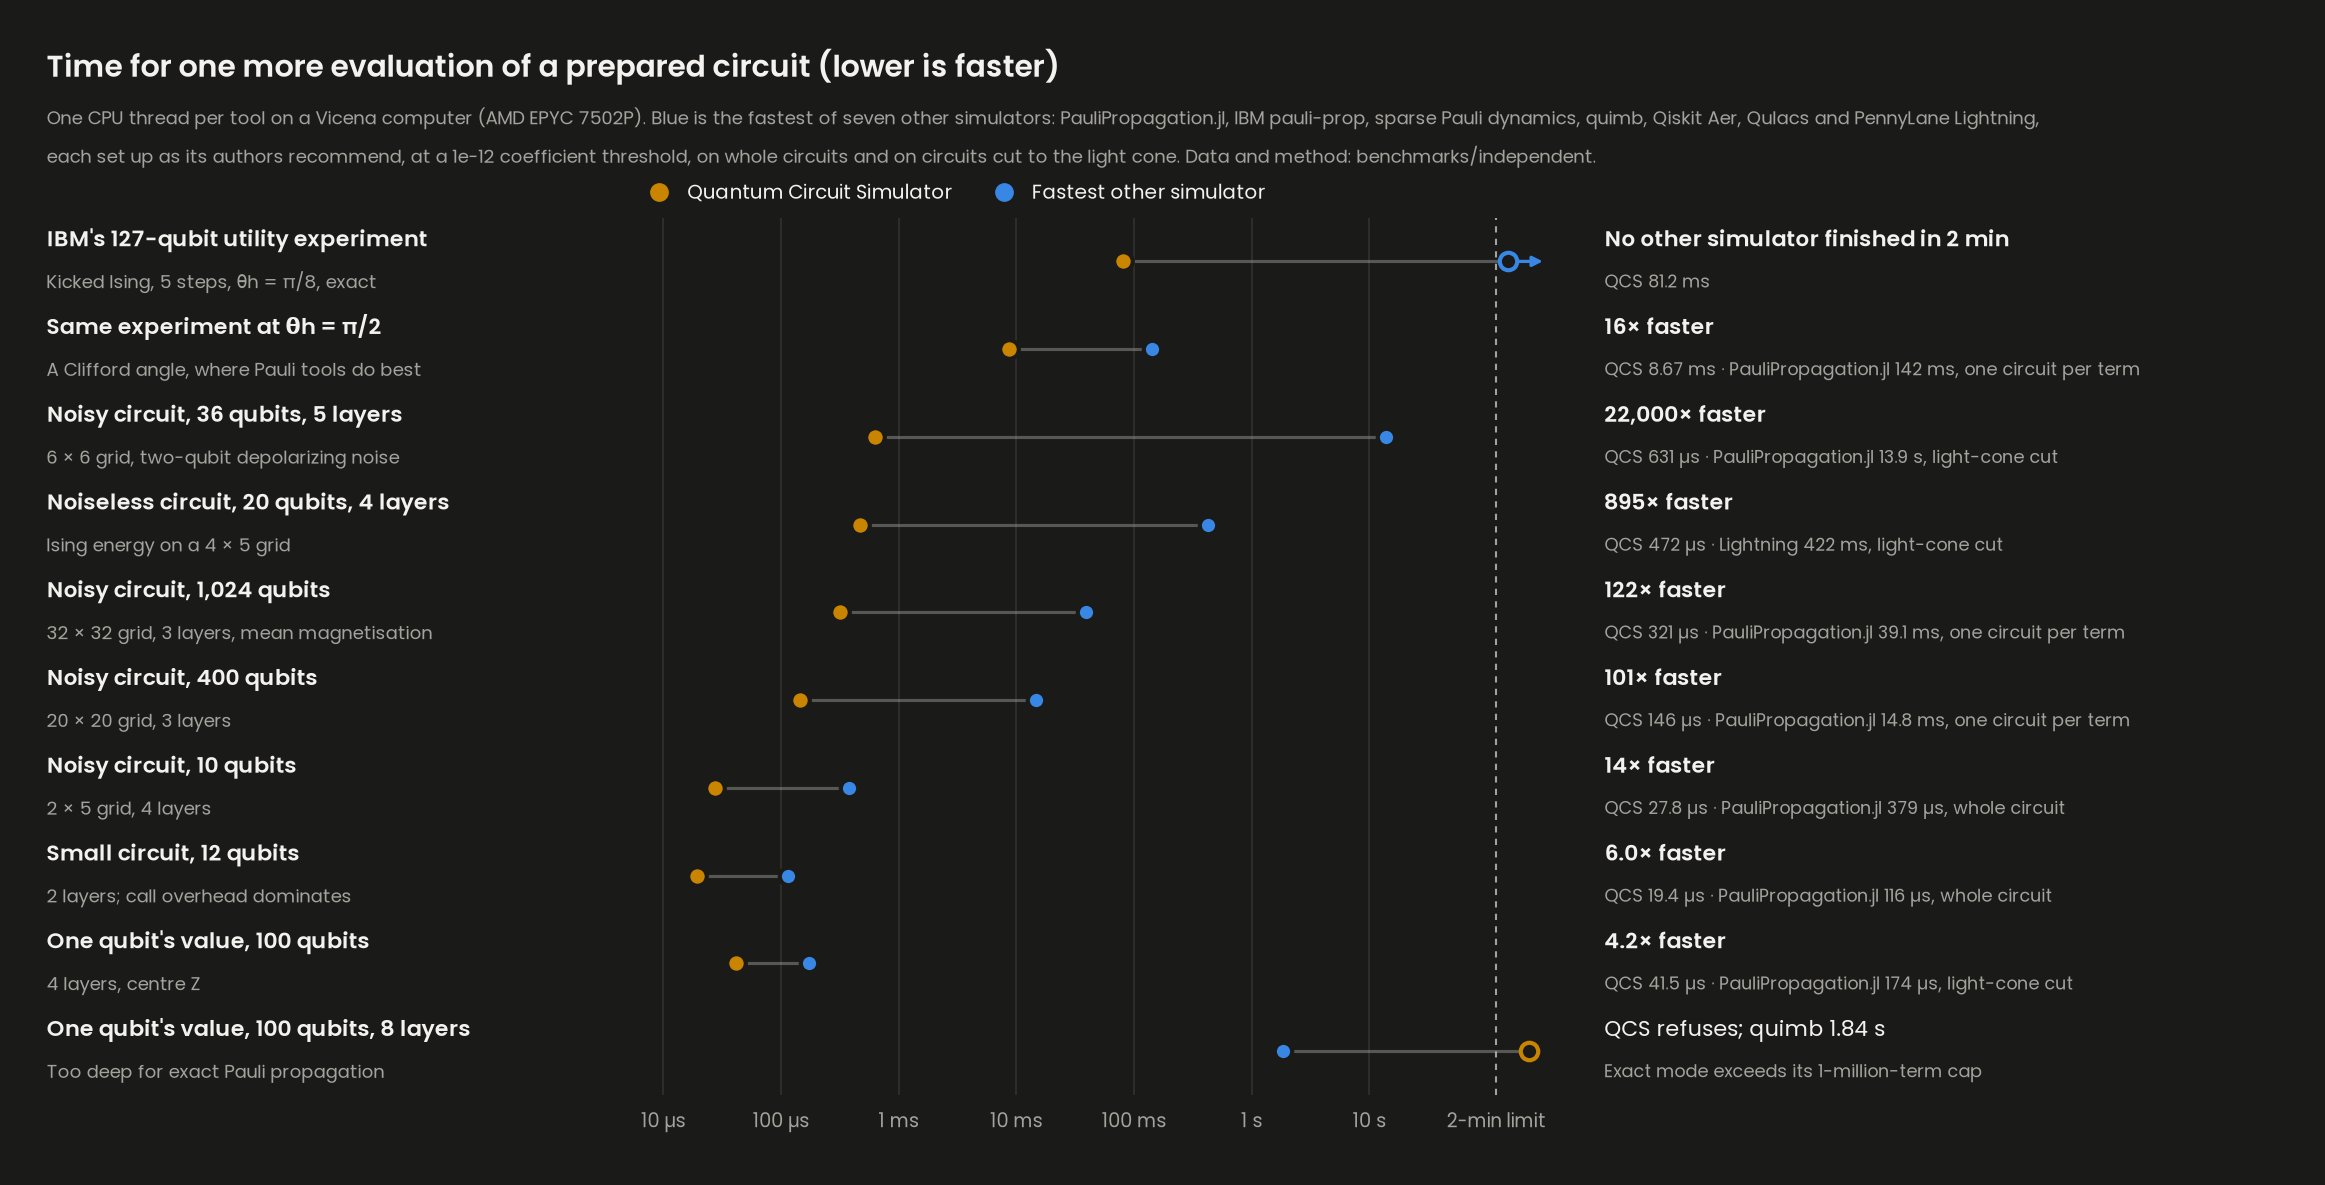
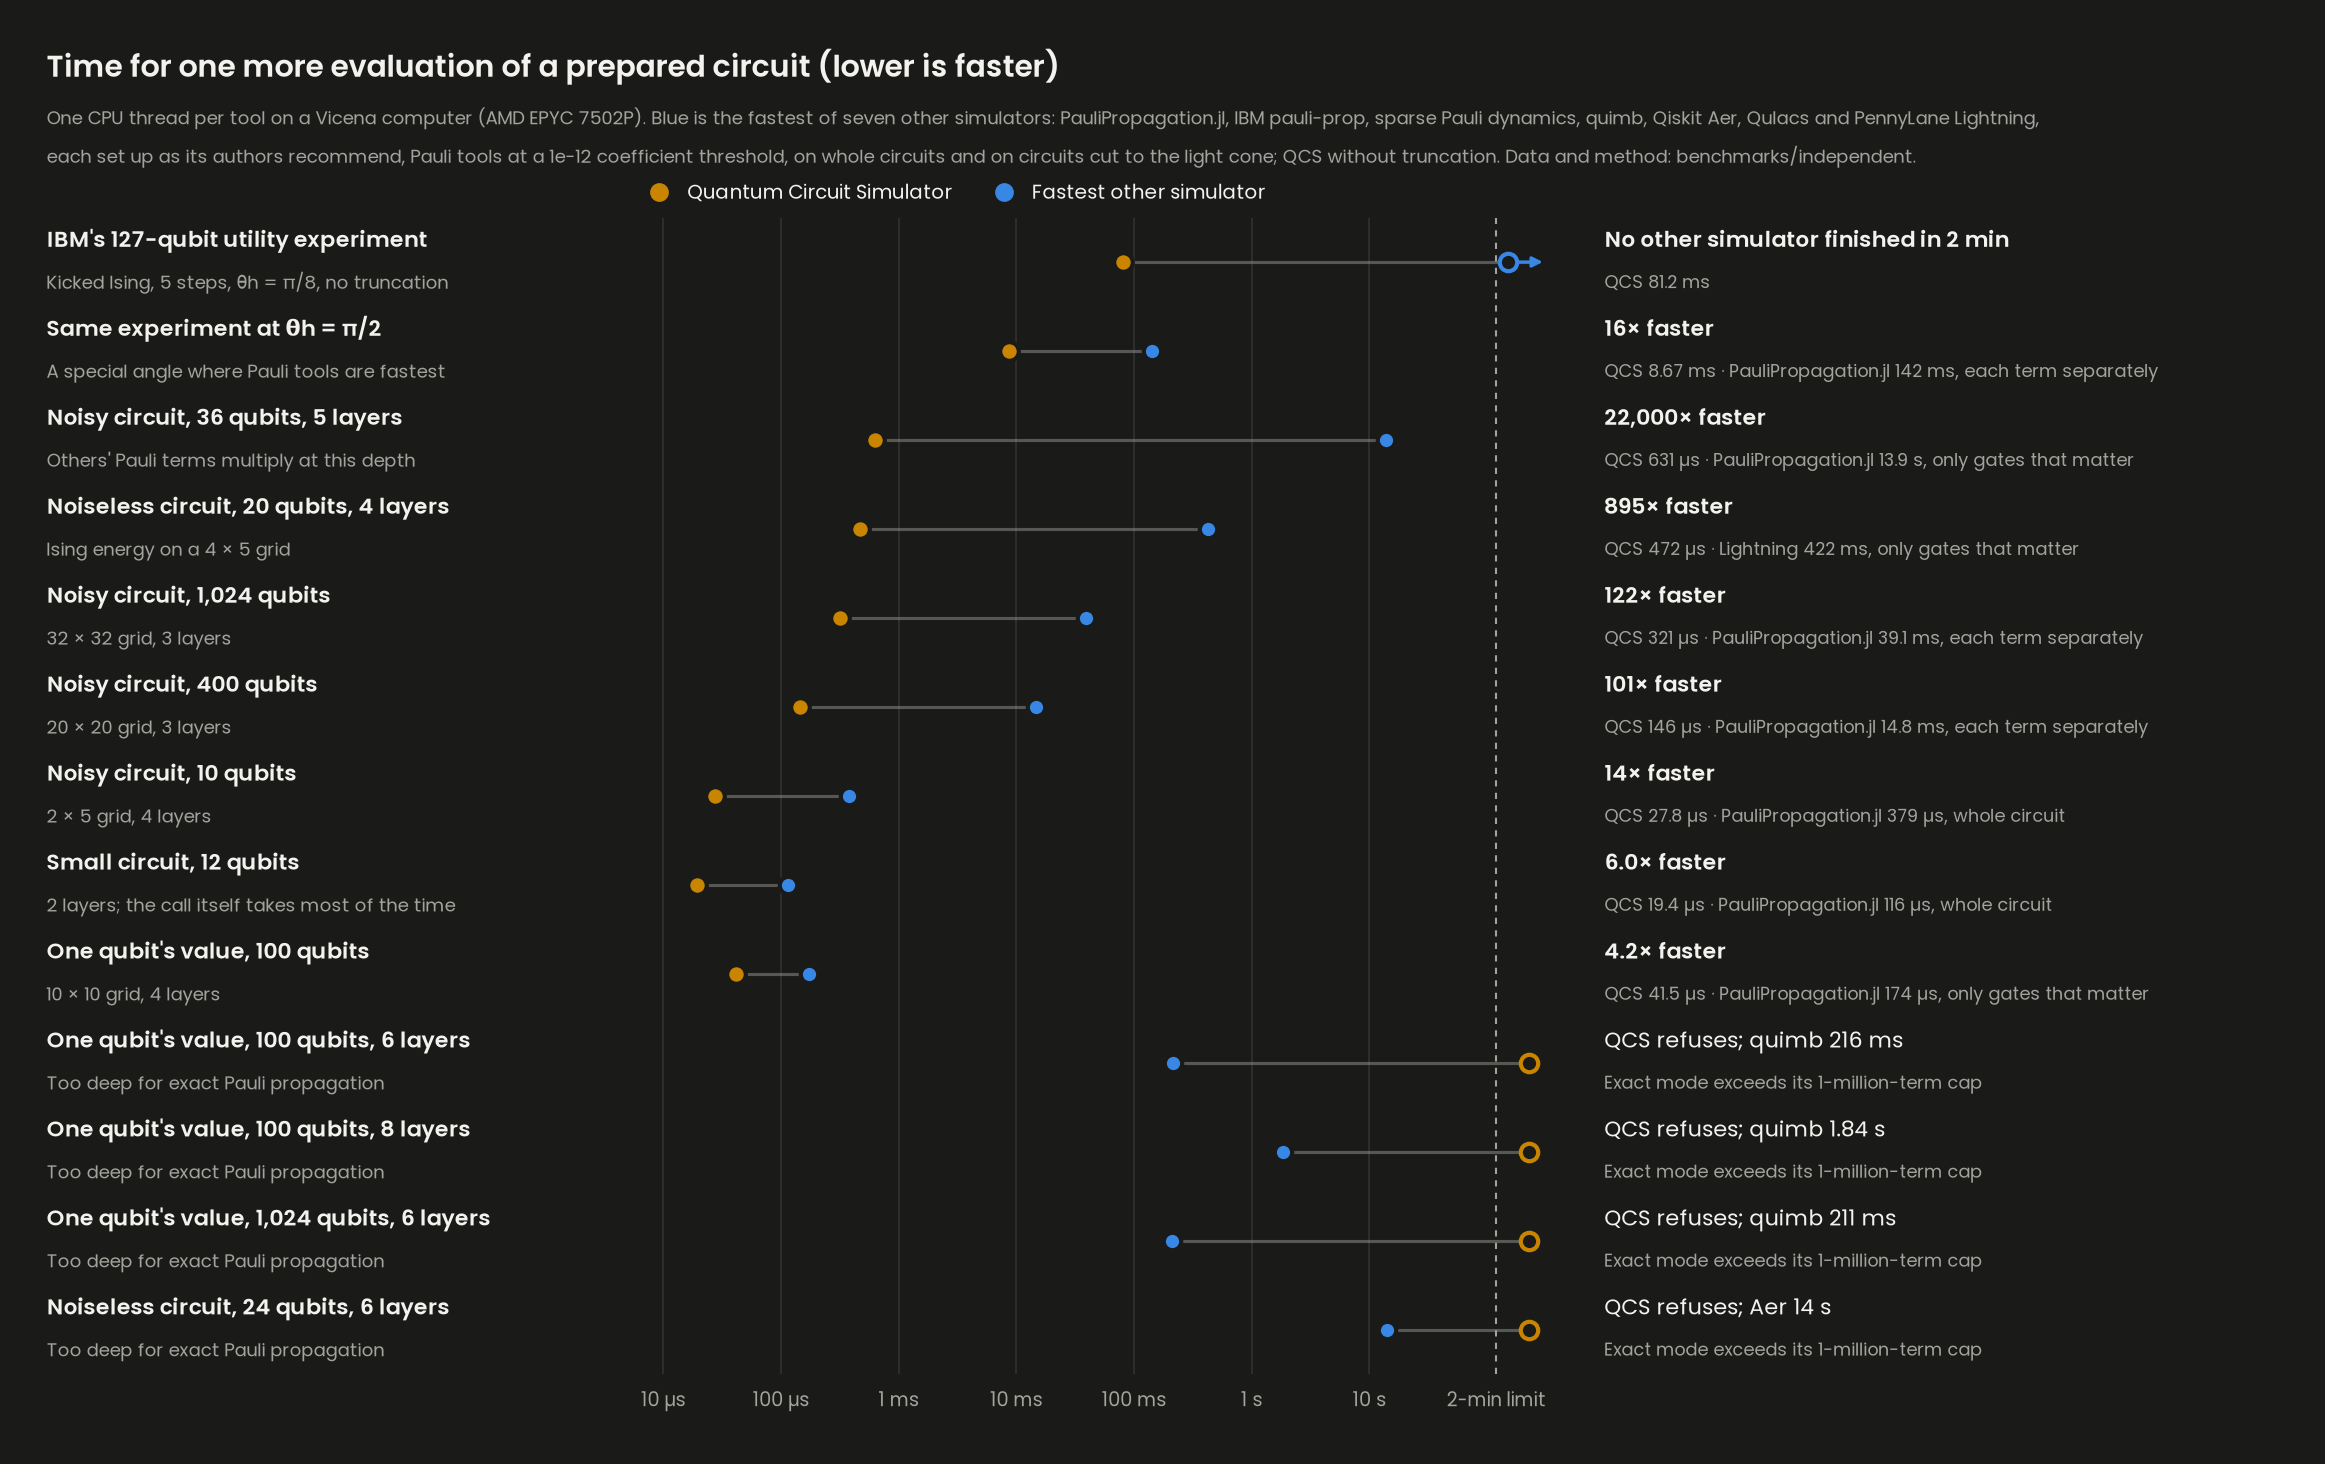
Speed chart: every circuit QCS refuses, plainer setup words
The chart now shows all four deep circuits that exact mode refuses beside
the tool that solves each, not one. A reader survey found 'light-cone cut' and
'one circuit per term' opaque, so they read 'only gates that matter' and
'each term separately', the caption says QCS ran without truncation while the
Pauli tools had a 1e-12 threshold, and the 36-qubit row says why the others
slow down there.

diff --git a/benchmarks/independent/speed_chart.py b/benchmarks/independent/speed_chart.py
@@ -25,20 +25,23 @@ spec.loader.exec_module(summary)
 
 LIMIT = 120.0  # each run's time limit, in seconds
 # Workload, plain name, the detail an expert needs. Strongest results first, then
-# the two small circuits under a tenfold lead, then a circuit QCS refuses.
+# the two small circuits under a tenfold lead, then every circuit QCS refuses.
 ROWS = [
-    ("K_eagle_mz_S5_t1pi8", "IBM's 127-qubit utility experiment", "Kicked Ising, 5 steps, θh = π/8, exact"),
-    ("K_eagle_mz_S5_t4pi8", "Same experiment at θh = π/2", "A Clifford angle, where Pauli tools do best"),
-    ("B_noisy_6x6_L5", "Noisy circuit, 36 qubits, 5 layers", "6 × 6 grid, two-qubit depolarizing noise"),
+    ("K_eagle_mz_S5_t1pi8", "IBM's 127-qubit utility experiment", "Kicked Ising, 5 steps, θh = π/8, no truncation"),
+    ("K_eagle_mz_S5_t4pi8", "Same experiment at θh = π/2", "A special angle where Pauli tools are fastest"),
+    ("B_noisy_6x6_L5", "Noisy circuit, 36 qubits, 5 layers", "Others' Pauli terms multiply at this depth"),
     ("A_vqe_4x5_L4", "Noiseless circuit, 20 qubits, 4 layers", "Ising energy on a 4 × 5 grid"),
-    ("B_noisy_32x32_L3", "Noisy circuit, 1,024 qubits", "32 × 32 grid, 3 layers, mean magnetisation"),
+    ("B_noisy_32x32_L3", "Noisy circuit, 1,024 qubits", "32 × 32 grid, 3 layers"),
     ("B_noisy_20x20_L3", "Noisy circuit, 400 qubits", "20 × 20 grid, 3 layers"),
     ("B_noisy_2x5_L4", "Noisy circuit, 10 qubits", "2 × 5 grid, 4 layers"),
-    ("A_vqe_3x4_L2", "Small circuit, 12 qubits", "2 layers; call overhead dominates"),
-    ("C_centre_10x10_L4", "One qubit's value, 100 qubits", "4 layers, centre Z"),
+    ("A_vqe_3x4_L2", "Small circuit, 12 qubits", "2 layers; the call itself takes most of the time"),
+    ("C_centre_10x10_L4", "One qubit's value, 100 qubits", "10 × 10 grid, 4 layers"),
+    ("C_centre_10x10_L6", "One qubit's value, 100 qubits, 6 layers", "Too deep for exact Pauli propagation"),
     ("C_centre_10x10_L8", "One qubit's value, 100 qubits, 8 layers", "Too deep for exact Pauli propagation"),
+    ("C_centre_32x32_L6", "One qubit's value, 1,024 qubits, 6 layers", "Too deep for exact Pauli propagation"),
+    ("A_vqe_4x6_L6", "Noiseless circuit, 24 qubits, 6 layers", "Too deep for exact Pauli propagation"),
 ]
-SETUP = {"whole": "whole circuit", "cone": "light-cone cut", "split": "one circuit per term"}
+SETUP = {"whole": "whole circuit", "cone": "only gates that matter", "split": "each term separately"}
 THEMES = {
     "light": {"surface": "#fcfcfb", "ink": "#1a1a19", "muted": "#6b6a66", "grid": "#e4e3df",
               "ours": "#9a6a00", "other": "#256abf"},
@@ -143,8 +146,8 @@ def draw(rows, machine, theme, font, path):
     fig.text(0.02, title_y - 0.36 / height,
              f"One CPU thread per tool on a Vicena computer ({machine['cpu'].split(' 32-Core')[0]}). "
              "Blue is the fastest of seven other simulators: PauliPropagation.jl, IBM pauli-prop, sparse Pauli dynamics, "
-             "quimb, Qiskit Aer, Qulacs and PennyLane Lightning,\neach set up as its authors recommend, at a 1e-12 "
-             "coefficient threshold, on whole circuits and on circuits cut to the light cone. "
+             "quimb, Qiskit Aer, Qulacs and PennyLane Lightning,\neach set up as its authors recommend, Pauli tools at a "
+             "1e-12 coefficient threshold, on whole circuits and on circuits cut to the light cone; QCS without truncation. "
              "Data and method: benchmarks/independent.", color=theme["muted"], fontsize=8.8, va="top", linespacing=1.5)
     handles = [Line2D([], [], ls="", marker="o", ms=8, color=theme["ours"], label="Quantum Circuit Simulator"),
                Line2D([], [], ls="", marker="o", ms=8, color=theme["other"], label="Fastest other simulator")]

diff --git a/README.md b/README.md
@@ -64,7 +64,7 @@ A quantum computer's output can be checked on an ordinary computer by simulating
 
 <picture>
   <source media="(prefers-color-scheme: dark)" srcset="docs/images/speed-dark.png">
-  <img alt="Time per evaluation on a log scale for ten circuits: Quantum Circuit Simulator against the fastest of seven other simulators. It is 16 to 22,000 times faster on eight of them, the only one to finish IBM's 127-qubit experiment at a general angle, 4 to 6 times faster on two small circuits, and refuses a 100-qubit, 8-layer circuit that quimb solves in 1.8 seconds" src="docs/images/speed-light.png">
+  <img alt="Time per evaluation on a log scale for thirteen circuits: Quantum Circuit Simulator against the fastest of seven other simulators. It is 14 to 22,000 times faster on seven of them, the only one to finish IBM's 127-qubit experiment at a general angle, 4 to 6 times faster on two small circuits, and refuses four deep circuits that quimb or Aer solve in 0.2 to 14 seconds" src="docs/images/speed-light.png">
 </picture>
 
 **What it means in practice:**
